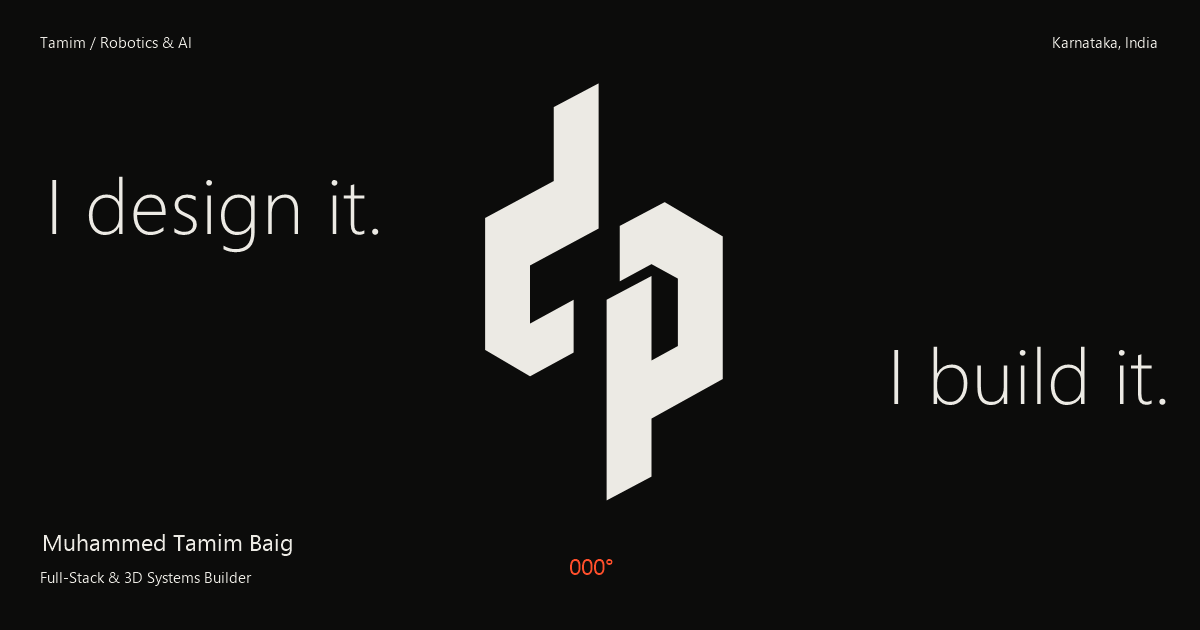
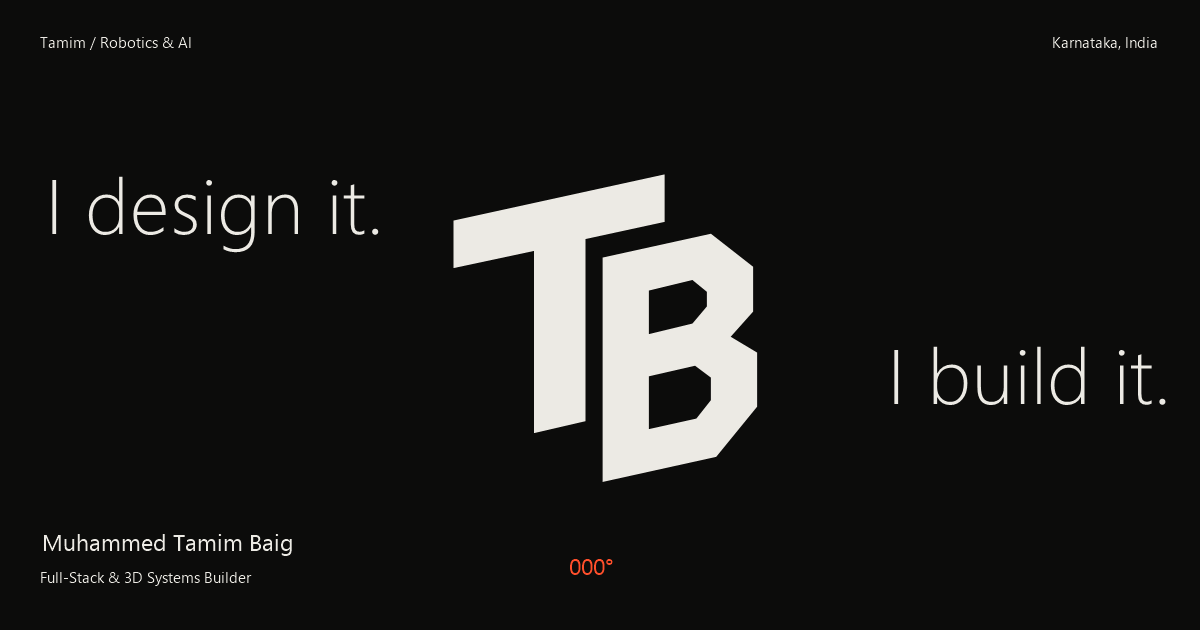
Use Tamim Baig’s TB monogram throughout the portfolio

Changed region(s): [[0.37, 0.1206, 0.6475, 0.7841]]

diff --git a/src/components/Scene3D.tsx b/src/components/Scene3D.tsx
@@ -7,42 +7,24 @@ import type { MotionValue } from "framer-motion";
 import * as THREE from "three";
 import { Monogram } from "./Monogram";
 
-const leftPoints = [
-  [30, 104],
-  [82, 76],
-  [82, 20],
-  [116, 2],
-  [116, 112],
-  [64, 140],
-  [64, 184],
-  [97, 166],
-  [97, 206],
-  [64, 224],
-  [30, 204],
-];
-const rightPoints = [
-  [132, 110],
-  [166, 92],
-  [210, 118],
-  [210, 226],
-  [156, 256],
-  [156, 300],
-  [122, 318],
-  [122, 166],
-  [156, 148],
-  [156, 212],
-  [176, 201],
-  [176, 150],
-  [156, 139],
-  [132, 152],
-];
-function makeShape(points: number[][]) {
+import glyphs from "../data/monogram.json";
+
+function makeShape(glyph: (typeof glyphs)[number]) {
+  const trace = (path: THREE.Path, vertices: number[][]) => {
+    vertices.forEach(([x,y], i) => {
+      const px = (x-120)/48, py = (172-y)/48;
+      if (i === 0) path.moveTo(px,py);
+      else path.lineTo(px,py);
+    });
+    path.closePath();
+  };
   const shape = new THREE.Shape();
-  points.forEach(([x, y], i) => {
-    if (i === 0) shape.moveTo((x - 120) / 55, (160 - y) / 55);
-    else shape.lineTo((x - 120) / 55, (160 - y) / 55);
-  });
-  shape.closePath();
+  trace(shape, glyph.outline);
+  for (const counter of glyph.holes) {
+    const hole = new THREE.Path();
+    trace(hole, counter);
+    shape.holes.push(hole);
+  }
   return new THREE.ExtrudeGeometry(shape, {
     depth: 0.18,
     bevelEnabled: true,
@@ -68,7 +50,7 @@ function MarkScene({
   const current = useRef(0);
   const { size } = useThree();
   const shapes = useMemo(
-    () => [makeShape(leftPoints), makeShape(rightPoints)],
+    () => glyphs.map(makeShape),
     [],
   );
   useEffect(
@@ -237,7 +219,7 @@ export default function Scene3D({
       className="scene-canvas"
       ref={container}
       role="img"
-      aria-label="Sculptural angular Tamim monogram, turning from a solid form into a wireframe tunnel as you scroll"
+      aria-label="Sculptural TB monogram for Tamim Baig, turning from a solid form into a wireframe tunnel as you scroll"
     >
       <SceneBoundary>
         <Canvas

diff --git a/src/components/Monogram.tsx b/src/components/Monogram.tsx
@@ -1,3 +1,5 @@
+import glyphs from "../data/monogram.json";
+
 export function Monogram({
   className = "",
   wire = false,
@@ -14,8 +16,11 @@ export function Monogram({
       strokeWidth="1"
       aria-hidden="true"
     >
-      <path d="M30 104 82 76 82 20 116 2 116 112 64 140 64 184 97 166 97 206 64 224 30 204Z" />
-      <path d="M132 110 166 92 210 118 210 226 156 256 156 300 122 318 122 166 156 148 156 212 176 201 176 150 156 139 132 152Z" />
+      {glyphs.map(({letter, outline, holes}) => (
+        <path key={letter} fillRule="evenodd" d={[outline,...holes].map(points =>
+          "M" + points.map(pair => pair.join(" ")).join(" ") + "Z"
+        ).join(" ")} />
+      ))}
     </svg>
   );
 }

diff --git a/PORTFOLIO_SOURCE.md b/PORTFOLIO_SOURCE.md
@@ -310,42 +310,24 @@ import type { MotionValue } from "framer-motion";
 import * as THREE from "three";
 import { Monogram } from "./Monogram";
 
-const leftPoints = [
-  [30, 104],
-  [82, 76],
-  [82, 20],
-  [116, 2],
-  [116, 112],
-  [64, 140],
-  [64, 184],
-  [97, 166],
-  [97, 206],
-  [64, 224],
-  [30, 204],
-];
-const rightPoints = [
-  [132, 110],
-  [166, 92],
-  [210, 118],
-  [210, 226],
-  [156, 256],
-  [156, 300],
-  [122, 318],
-  [122, 166],
-  [156, 148],
-  [156, 212],
-  [176, 201],
-  [176, 150],
-  [156, 139],
-  [132, 152],
-];
-function makeShape(points: number[][]) {
+import glyphs from "../data/monogram.json";
+
+function makeShape(glyph: (typeof glyphs)[number]) {
+  const trace = (path: THREE.Path, vertices: number[][]) => {
+    vertices.forEach(([x,y], i) => {
+      const px = (x-120)/48, py = (172-y)/48;
+      if (i === 0) path.moveTo(px,py);
+      else path.lineTo(px,py);
+    });
+    path.closePath();
+  };
   const shape = new THREE.Shape();
-  points.forEach(([x, y], i) => {
-    if (i === 0) shape.moveTo((x - 120) / 55, (160 - y) / 55);
-    else shape.lineTo((x - 120) / 55, (160 - y) / 55);
-  });
-  shape.closePath();
+  trace(shape, glyph.outline);
+  for (const counter of glyph.holes) {
+    const hole = new THREE.Path();
+    trace(hole, counter);
+    shape.holes.push(hole);
+  }
   return new THREE.ExtrudeGeometry(shape, {
     depth: 0.18,
     bevelEnabled: true,
@@ -371,7 +353,7 @@ function MarkScene({
   const current = useRef(0);
   const { size } = useThree();
   const shapes = useMemo(
-    () => [makeShape(leftPoints), makeShape(rightPoints)],
+    () => glyphs.map(makeShape),
     [],
   );
   useEffect(
@@ -540,7 +522,7 @@ export default function Scene3D({
       className="scene-canvas"
       ref={container}
       role="img"
-      aria-label="Sculptural angular Tamim monogram, turning from a solid form into a wireframe tunnel as you scroll"
+      aria-label="Sculptural TB monogram for Tamim Baig, turning from a solid form into a wireframe tunnel as you scroll"
     >
       <SceneBoundary>
         <Canvas
@@ -1483,6 +1465,8 @@ export function ProjectPreview({ project }: { project: Project }) {
 ## src/components/Monogram.tsx
 
 ```tsx
+import glyphs from "../data/monogram.json";
+
 export function Monogram({
   className = "",
   wire = false,
@@ -1499,8 +1483,11 @@ export function Monogram({
       strokeWidth="1"
       aria-hidden="true"
     >
-      <path d="M30 104 82 76 82 20 116 2 116 112 64 140 64 184 97 166 97 206 64 224 30 204Z" />
-      <path d="M132 110 166 92 210 118 210 226 156 256 156 300 122 318 122 166 156 148 156 212 176 201 176 150 156 139 132 152Z" />
+      {glyphs.map(({letter, outline, holes}) => (
+        <path key={letter} fillRule="evenodd" d={[outline,...holes].map(points =>
+          "M" + points.map(pair => pair.join(" ")).join(" ") + "Z"
+        ).join(" ")} />
+      ))}
     </svg>
   );
 }
@@ -3671,11 +3658,11 @@ export default defineConfig(({ mode }) => {
 ## public/favicon.svg
 
 ```svg
-<svg xmlns="http://www.w3.org/2000/svg" viewBox="-40 -10 320 340">
-  <rect x="-40" y="-10" width="320" height="340" rx="42" fill="#0c0c0b"/>
-  <path fill="#eceae4" d="M30 104 82 76 82 20 116 2 116 112 64 140 64 184 97 166 97 206 64 224 30 204Z"/>
-  <path fill="#eceae4" d="M132 110 166 92 210 118 210 226 156 256 156 300 122 318 122 166 156 148 156 212 176 201 176 150 156 139 132 152Z"/>
-</svg>
+<svg xmlns="http://www.w3.org/2000/svg" viewBox="-20 15 280 280"><title>TB — Tamim Baig</title><rect x="-20" y="15" width="280" height="280" rx="36" fill="#0c0c0b"/><path fill="#eceae4" fill-rule="evenodd" d="M6 106 166 71 166 107 106 120 106 258 67 267 67 129 6 142Z"/><path fill="#eceae4" fill-rule="evenodd" d="M119 134 201 116 233 141 233 175 216 194 236 206 236 247 205 285 119 304Z M154 159 154 192 187 184 198 171 198 160 187 151Z M154 224 154 264 190 256 201 242 201 225 189 216Z"/></svg>
 ```
 
+## src/data/monogram.json
 
+```json
+[{"letter":"T","outline":[[6,106],[166,71],[166,107],[106,120],[106,258],[67,267],[67,129],[6,142]],"holes":[]},{"letter":"B","outline":[[119,134],[201,116],[233,141],[233,175],[216,194],[236,206],[236,247],[205,285],[119,304]],"holes":[[[154,159],[154,192],[187,184],[198,171],[198,160],[187,151]],[[154,224],[154,264],[190,256],[201,242],[201,225],[189,216]]]}]
+```
